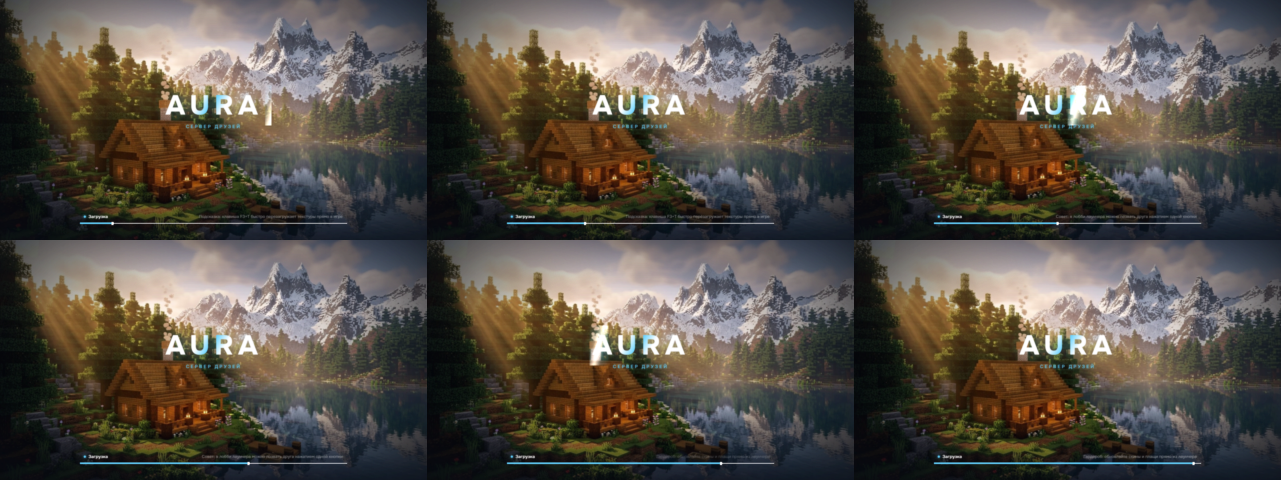
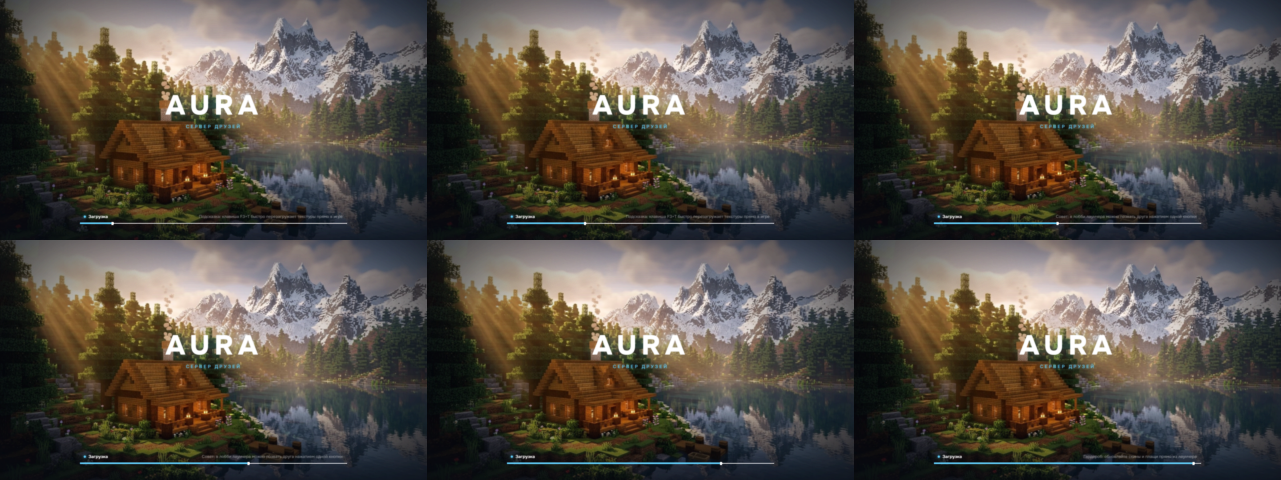
fix(aura-ui): glyph-only shine, reproducible background

diff --git a/aura-ui/tools/render-textures.js b/aura-ui/tools/render-textures.js
@@ -1,9 +1,3 @@
-/**
- * Рендер текстур экрана загрузки из tools/textures.html в src/main/resources/assets/aura-ui/textures/gui/.
- * Headless Chrome, масштаб ×2, прозрачный фон. Фон мира — резкий bg_1.jpg 1920×1080.
- *
- * node tools/render-textures.js
- */
 const fs = require('fs');
 const path = require('path');
 const { spawn } = require('child_process');
@@ -13,13 +7,12 @@ const PORT = 9677;
 const ROOT = path.resolve(__dirname, '..');
 const OUT = path.join(ROOT, 'src', 'main', 'resources', 'assets', 'aura-ui', 'textures', 'gui');
 const SCALE = 2;
-const SHOTS = ['wordmark', 'subtitle', 'shine', 'label', 'tip1', 'tip2', 'tip3', 'tip4', 'vignette'];
+const SHOTS = ['wordmark', 'wordmark_mask', 'subtitle', 'label', 'tip1', 'tip2', 'tip3', 'tip4', 'vignette'];
 
 async function main() {
   fs.mkdirSync(OUT, { recursive: true });
 
-  // Удаляем устаревшие текстуры капсулы
-  for (const old of ['capsule.png', 'ring.png', 'glow.png', 'shadow.png']) {
+  for (const old of ['capsule.png', 'ring.png', 'glow.png', 'shadow.png', 'shine.png']) {
     const p = path.join(OUT, old);
     if (fs.existsSync(p)) fs.unlinkSync(p);
   }
@@ -34,7 +27,7 @@ async function main() {
       try {
         const list = await (await fetch(`http://127.0.0.1:${PORT}/json`)).json();
         wsUrl = (list.find(t => t.type === 'page') || {}).webSocketDebuggerUrl;
-      } catch (e) { /* ещё стартует */ }
+      } catch (e) {}
     }
     if (!wsUrl) throw new Error('Chrome не поднялся');
 
@@ -64,6 +57,15 @@ async function main() {
       fs.writeFileSync(path.join(OUT, `${name}.png`), Buffer.from(data, 'base64'));
       console.log(`${name}.png  ${Math.round(b.w * SCALE)}×${Math.round(b.h * SCALE)}`);
     }
+
+    // Резкий фон мира bg_1.jpg: открываем прямо в Chrome и снимаем скриншот 1920×1080
+    const bgPath = path.resolve(ROOT, '..', 'docs', 'redesign', 'v3', 'public', 'assets', 'images', 'bg_1.jpg');
+    await send('Emulation.setDeviceMetricsOverride', { width: 1920, height: 1080, deviceScaleFactor: 1, mobile: false });
+    await send('Page.navigate', { url: 'file:///' + bgPath.replace(/\\/g, '/') });
+    await new Promise(r => setTimeout(r, 1000));
+    const { data: bgData } = await send('Page.captureScreenshot', { format: 'png', clip: { x: 0, y: 0, width: 1920, height: 1080, scale: 1 } });
+    fs.writeFileSync(path.join(OUT, 'background.png'), Buffer.from(bgData, 'base64'));
+    console.log('background.png  1920×1080');
 
     ws.close();
   } finally {

diff --git a/aura-ui/tools/textures.html b/aura-ui/tools/textures.html
@@ -39,6 +39,21 @@
     filter: drop-shadow(0 0 24px rgba(100, 210, 255, 0.45));
   }
 
+  /* 1b. Маска букв вордмарка: точно такой же размер и отступы, сплошной белый цвет без тени */
+  #wordmark_mask {
+    top: 0;
+    font-size: 88px;
+    font-weight: 800;
+    letter-spacing: 0.16em;
+    text-transform: uppercase;
+    color: #FFFFFF;
+    line-height: 1;
+    padding: 20px 30px;
+    background: transparent;
+    -webkit-text-fill-color: #FFFFFF;
+    filter: none;
+  }
+
   /* 2. Подзаголовок: СЕРВЕР ДРУЗЕЙ */
   #subtitle {
     top: 150px;
@@ -51,20 +66,6 @@
     line-height: 1;
     opacity: 0.95;
     text-shadow: 0 0 12px rgba(100, 210, 255, 0.4);
-  }
-
-  /* 3. Узкая диагональная полоса света для блика (shine) */
-  #shine {
-    top: 200px;
-    width: 60px;
-    height: 140px;
-    background: linear-gradient(105deg,
-      rgba(255,255,255,0) 0%,
-      rgba(100,210,255,0.2) 30%,
-      rgba(255,255,255,0.95) 50%,
-      rgba(100,210,255,0.2) 70%,
-      rgba(255,255,255,0) 100%);
-    filter: blur(2px);
   }
 
   /* 4. Метка статуса с точкой слева: • Загрузка */
@@ -112,8 +113,8 @@
 </head>
 <body>
   <div class="shot" id="wordmark">Aura</div>
+  <div class="shot" id="wordmark_mask">Aura</div>
   <div class="shot" id="subtitle">Сервер друзей</div>
-  <div class="shot" id="shine"></div>
   <div class="shot" id="label"><span class="dot"></span><span>Загрузка</span></div>
   <div class="shot tip" id="tip1">Подсказка: клавиша F3+T быстро перезагружает текстуры прямо в игре</div>
   <div class="shot tip" id="tip2">Совет: в лобби лаунчера можно позвать друга нажатием одной кнопки</div>

diff --git a/aura-ui/src/main/java/com/auramc/auraui/AuraSplash.java b/aura-ui/src/main/java/com/auramc/auraui/AuraSplash.java
@@ -82,25 +82,29 @@ public final class AuraSplash {
 
         drawTex(ctx, AuraTextures.WORDMARK, cx, cy, ww, wh, 738, 256, 1f, 1f, 1f, alpha, false);
 
-        // Блик (shine) по вордмарку раз в 4 сек
+        // Блик только по буквам (wordmark_mask + scissor) раз в 4 сек
         float cycle = t % 4.0f;
-        if (cycle < 1.2f) {
-            float p = cycle / 1.2f; // 0..1
-            float shineW = (120f / 2f) * px;
-            float shineH = (280f / 2f) * px;
-            float sx = cx - shineW + p * (ww + shineW * 2f);
-            float sy = cy + (wh - shineH) / 2f;
+        if (cycle < 1.5f) {
+            float p = cycle / 1.5f;
+            float smoothP = p * p * (3f - 2f * p); // ease-in-out
+            float shineCenterX = cx + smoothP * ww;
 
-            // Ограничиваем блик прямоугольником вордмарка
-            int scissorX = (int) Math.max(0, cx);
-            int scissorY = (int) Math.max(0, cy);
-            int scissorW = (int) Math.min(sw - scissorX, ww);
-            int scissorH = (int) Math.min(sh - scissorY, wh);
+            // 3 мягких слоя scissor разной ширины: 20%, 12%, 6% ширины вордмарка
+            float[] widths = new float[] { ww * 0.20f, ww * 0.12f, ww * 0.06f };
+            float[] alphas = new float[] { 0.10f, 0.20f, 0.35f };
 
-            if (scissorW > 0 && scissorH > 0) {
-                ctx.enableScissor(scissorX, scissorY, scissorX + scissorW, scissorY + scissorH);
-                drawTex(ctx, AuraTextures.SHINE, sx, sy, shineW, shineH, 120, 280, 1f, 1f, 1f, alpha * 0.85f, true);
-                ctx.disableScissor();
+            int topY = (int) Math.max(0, cy);
+            int botY = (int) Math.min(sh, cy + wh);
+
+            for (int i = 0; i < 3; i++) {
+                float halfW = widths[i] / 2f;
+                int leftX = (int) Math.max(cx, shineCenterX - halfW);
+                int rightX = (int) Math.min(cx + ww, shineCenterX + halfW);
+                if (rightX > leftX && botY > topY) {
+                    ctx.enableScissor(leftX, topY, rightX, botY);
+                    drawTex(ctx, AuraTextures.WORDMARK_MASK, cx, cy, ww, wh, 740, 256, 1f, 1f, 1f, alpha * alphas[i], true);
+                    ctx.disableScissor();
+                }
             }
         }
 

diff --git a/aura-ui/src/main/java/com/auramc/auraui/AuraTextures.java b/aura-ui/src/main/java/com/auramc/auraui/AuraTextures.java
@@ -14,8 +14,8 @@ public final class AuraTextures {
     public static final Identifier BACKGROUND = id("background");
     public static final Identifier VIGNETTE = id("vignette");
     public static final Identifier WORDMARK = id("wordmark");
+    public static final Identifier WORDMARK_MASK = id("wordmark_mask");
     public static final Identifier SUBTITLE = id("subtitle");
-    public static final Identifier SHINE = id("shine");
     public static final Identifier LABEL = id("label");
     public static final Identifier TIP1 = id("tip1");
     public static final Identifier TIP2 = id("tip2");
@@ -38,7 +38,7 @@ public final class AuraTextures {
         if (registered) return;
         registered = true;
         for (Identifier tex : new Identifier[] {
-            BACKGROUND, VIGNETTE, WORDMARK, SUBTITLE, SHINE, LABEL, TIP1, TIP2, TIP3, TIP4
+            BACKGROUND, VIGNETTE, WORDMARK, WORDMARK_MASK, SUBTITLE, LABEL, TIP1, TIP2, TIP3, TIP4
         }) {
             try (InputStream in = AuraTextures.class.getResourceAsStream("/assets/" + tex.getNamespace() + "/" + tex.getPath())) {
                 if (in == null) {
